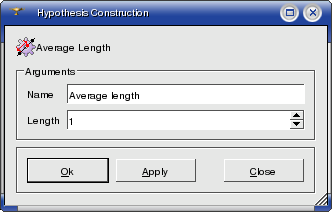
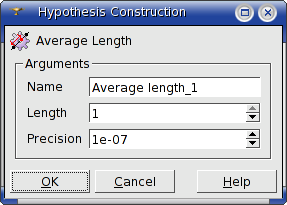
Fix for NPAL17873.

diff --git a/doc/salome/gui/SMESH/files/arithmetic_1d.htm b/doc/salome/gui/SMESH/files/arithmetic_1d.htm
@@ -182,12 +182,25 @@ if (window.writeIntopicBar)
 
 <h3><a name=Average_length>Average Length hypothesis</a></h3>
 
-<p><span style="font-weight: bold;"><B>Average Length </B></span>hypothesis can 
- be applied for meshing of edges composing your geometrical object. Definition 
- of this hypothesis consists of setting the <span style="font-weight: bold;"><B>length</B></span> 
- of segments, which will split these edges. The points on the edges generated 
- by these segments will represent nodes of your mesh. Later these nodes 
- will be used for meshing of the faces abutting to these edges.</p>
+<p><span style="font-weight: bold;"><B>Average Length </B></span>hypothesis
+ can be applied for meshing of edges composing your geometrical
+ object. Definition of this hypothesis consists of setting the
+ <span style="font-weight: bold;"><B>length </B></span>of segments,
+ which will split these edges, and the <span style="font-weight:bold;"><B>precision </B></span>
+ of rounding. The points on the edges generated by these segments will represent nodes of your
+ mesh. Later these nodes will be used for meshing of the faces abutting
+ to these edges.</p>
+
+<p>&nbsp;</p>
+
+<p>The <span style="font-weight: bold;"><B>precision </B></span>
+ parameter is used to allow rounding a number of
+ segments, calculated from the edge length and average length of
+ segment, to the lower integer, if this value outstands from it in
+ bounds of the precision. Otherwise, the number of segments is rounded
+ to the higher integer. Use value 0.5 to provide rounding to the
+ nearest integer, 1.0 for the lower integer, 0.0 for the higher
+ integer. Default value is 1e-07.</p>
 
 <p>&nbsp;</p>
 
